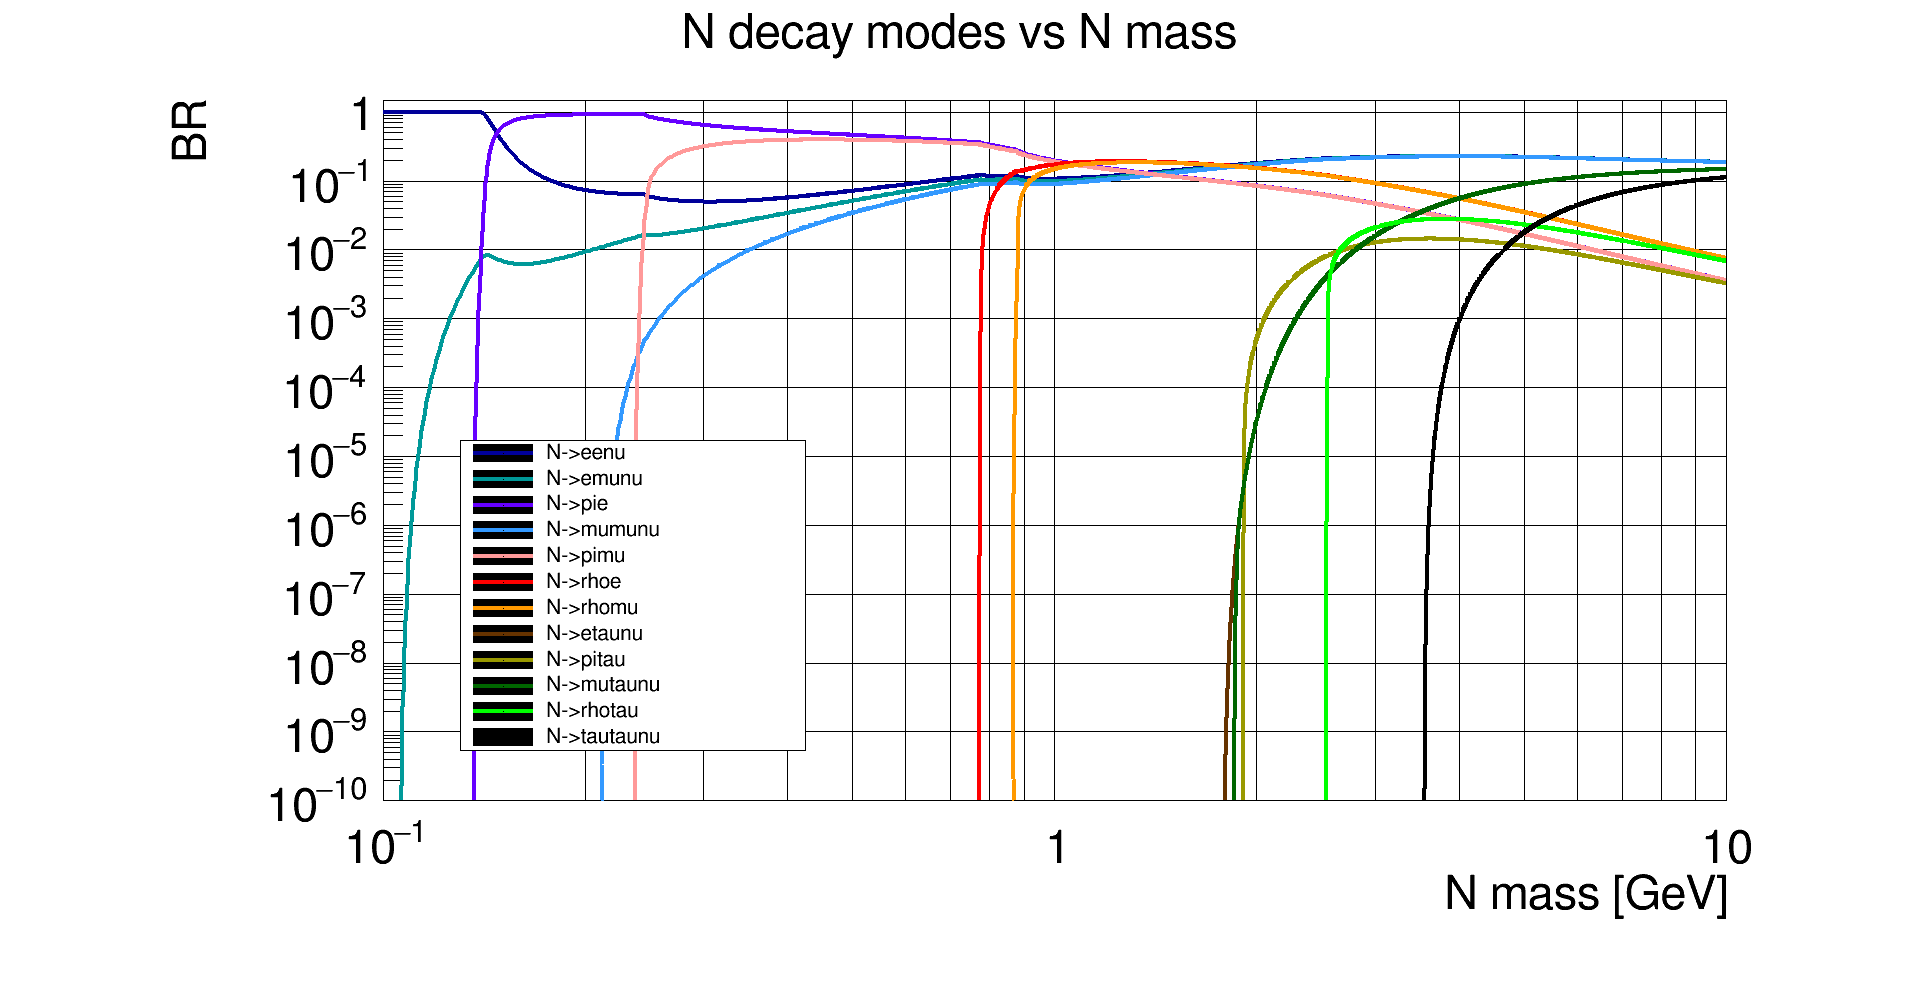
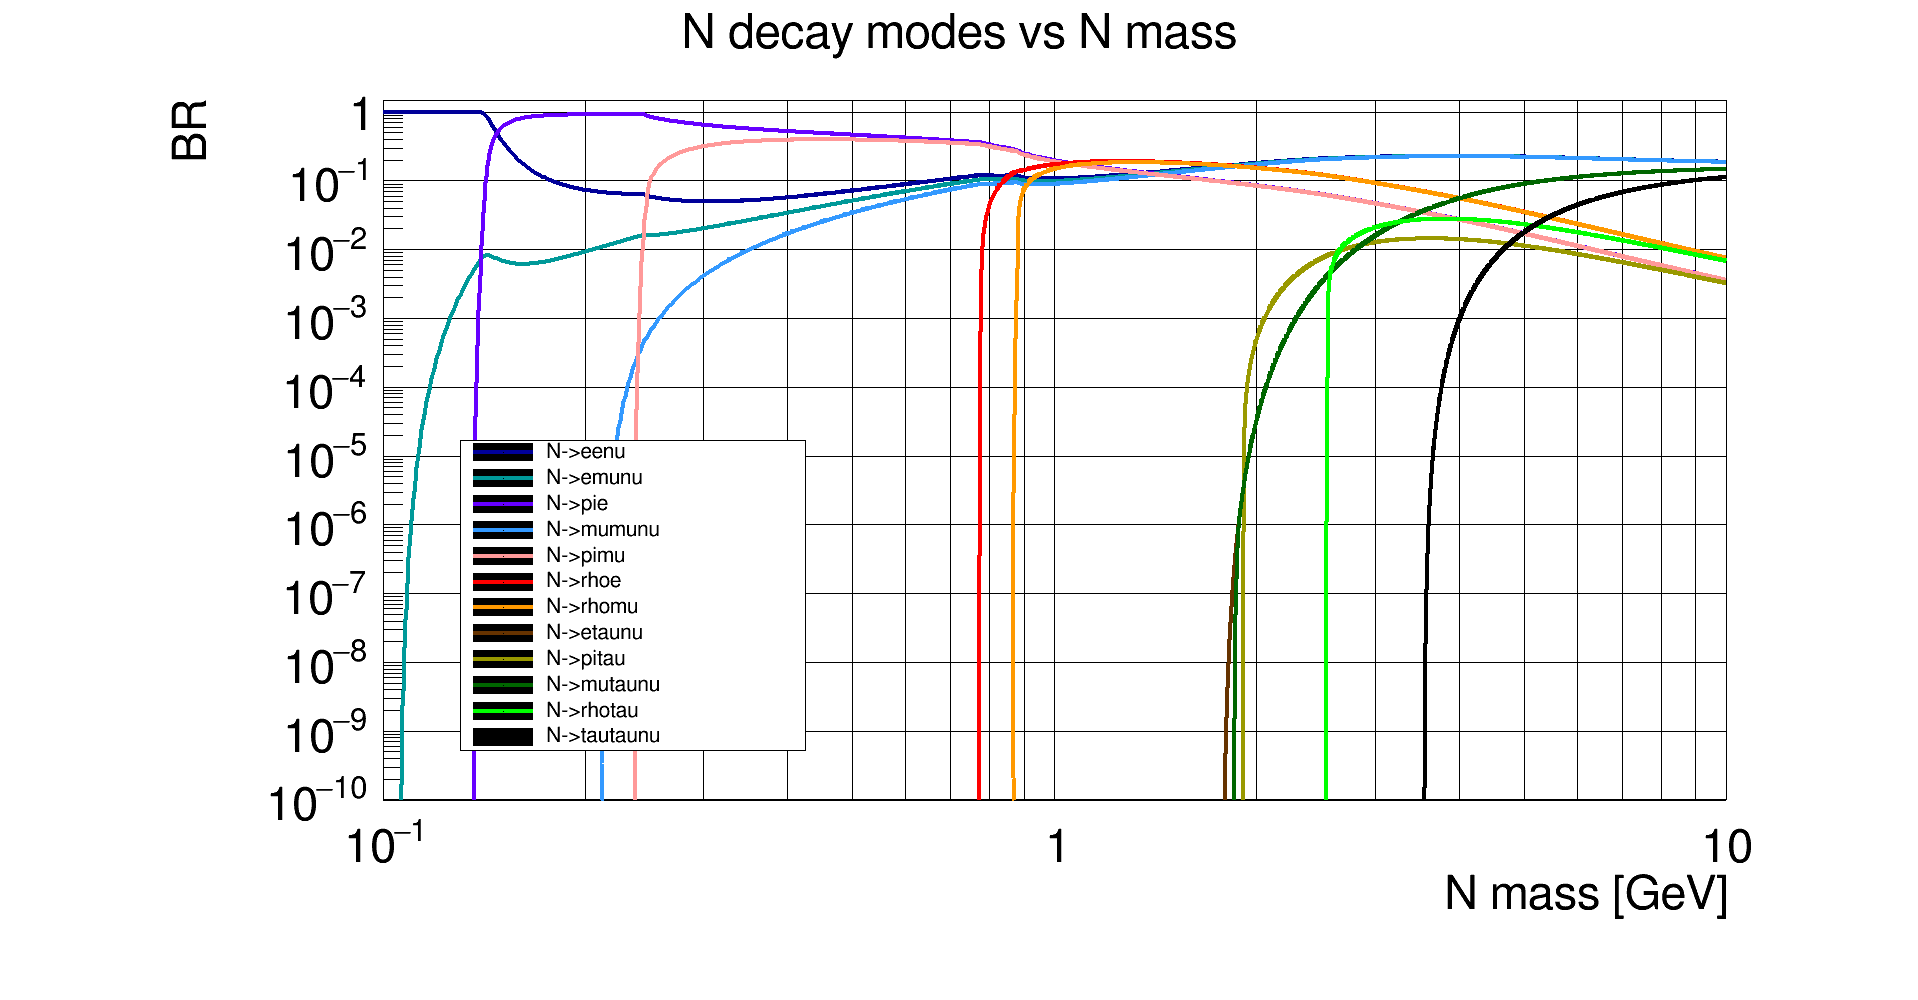
update

diff --git a/MyScripts/Others/GeneralPlots.C b/MyScripts/Others/GeneralPlots.C
@@ -661,7 +661,7 @@ void MassScan(Double_t Mass1, Double_t Mass2, Double_t Mass3, Bool_t Prod, Bool_
   TGraph* gr = new TGraph(Mass, xMN, yBR);
 
   gr->SetNameTitle(Title.c_str(), Title.c_str());
-  gr->SetLineWidth(4);
+  gr->SetLineWidth(5);
 
   if (Prod == kTRUE) {
     if (counterProd < 14) {
@@ -744,7 +744,7 @@ void GeneralPlots() {
   TGaxis::SetMaxDigits(2);
 
   // Dalitz plots
-    
+  /*    
   PhaseSpace(D,  K0,     e,  "D->K0eN");  // 3-body HNL production: Dalitz plots
   PhaseSpace(D,  pi0,    e,  "D->pi0eN");
   PhaseSpace(D0, K,      e,  "D0->KeN");
@@ -757,9 +757,9 @@ void GeneralPlots() {
   PhaseSpace(D0, KStar,  e,  "D0->K*eN");
   PhaseSpace(D,  K0Star, mu, "D->K0*muN");
   PhaseSpace(D0, KStar,  mu, "D0->K*muN");
-  
+  */
   // HNL production
-  /*  
+  
   MassScan(D,   e,   0., 1, 1, "D->Ne",                Mprod);  // HNL production via two-body decay
   MassScan(D,   mu,  0., 1, 1, "D->Nmu",               Mprod);
   MassScan(DS,  e,   0., 1, 1, "DS->Ne",               Mprod);
@@ -852,5 +852,4 @@ void GeneralPlots() {
   TImage *img1 = TImage::Create();
   img1->FromPad(gPad);
   img1->WriteImage("/home/li/GitVarious/HeavyNeutrino/BRs/NDecayGraph.png");
-  */
 }
